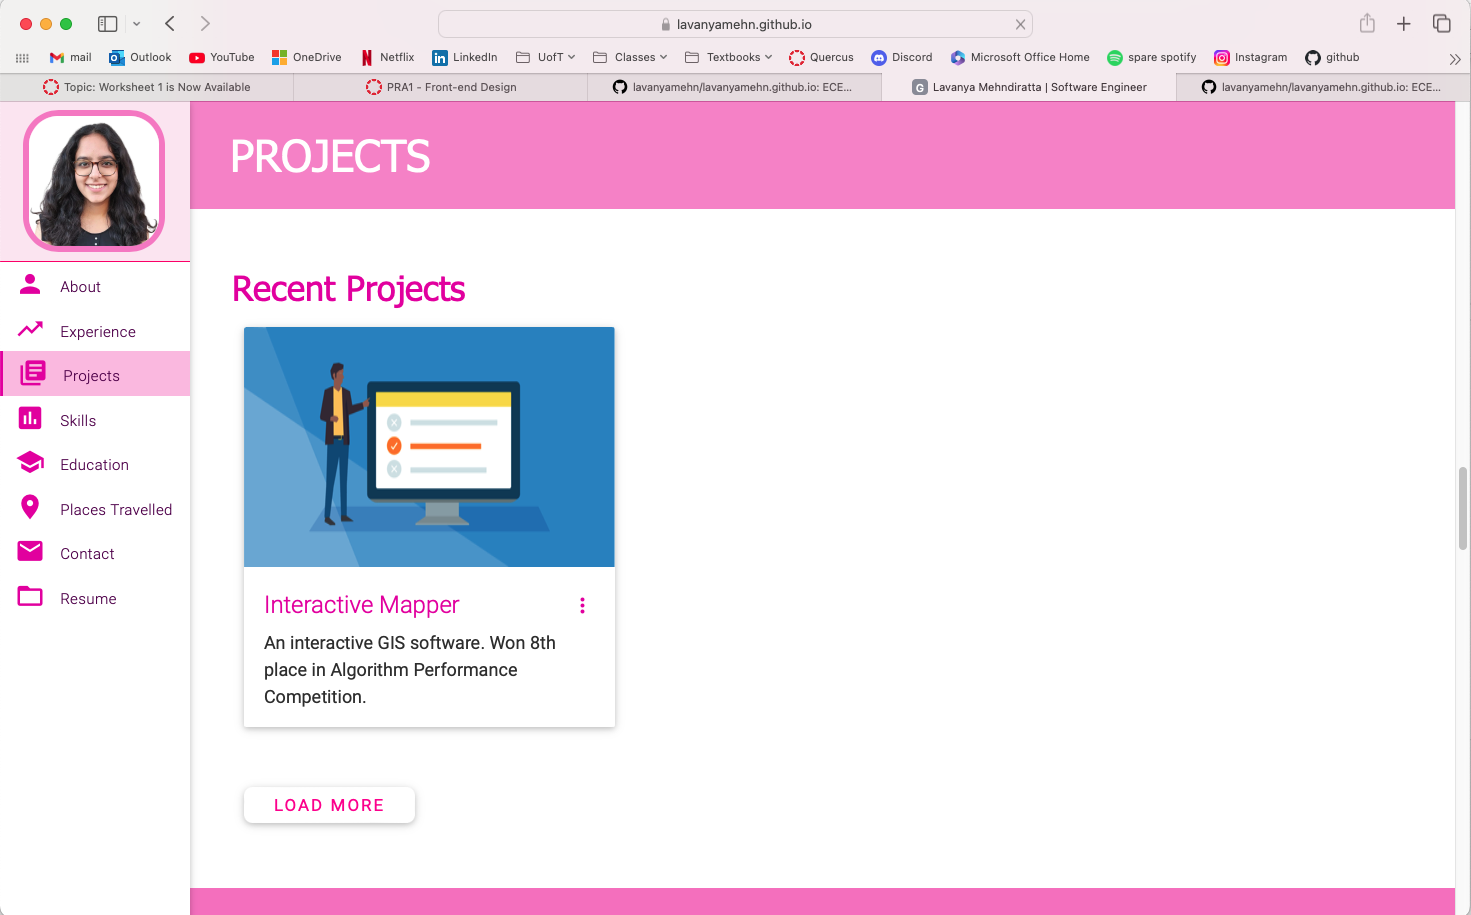
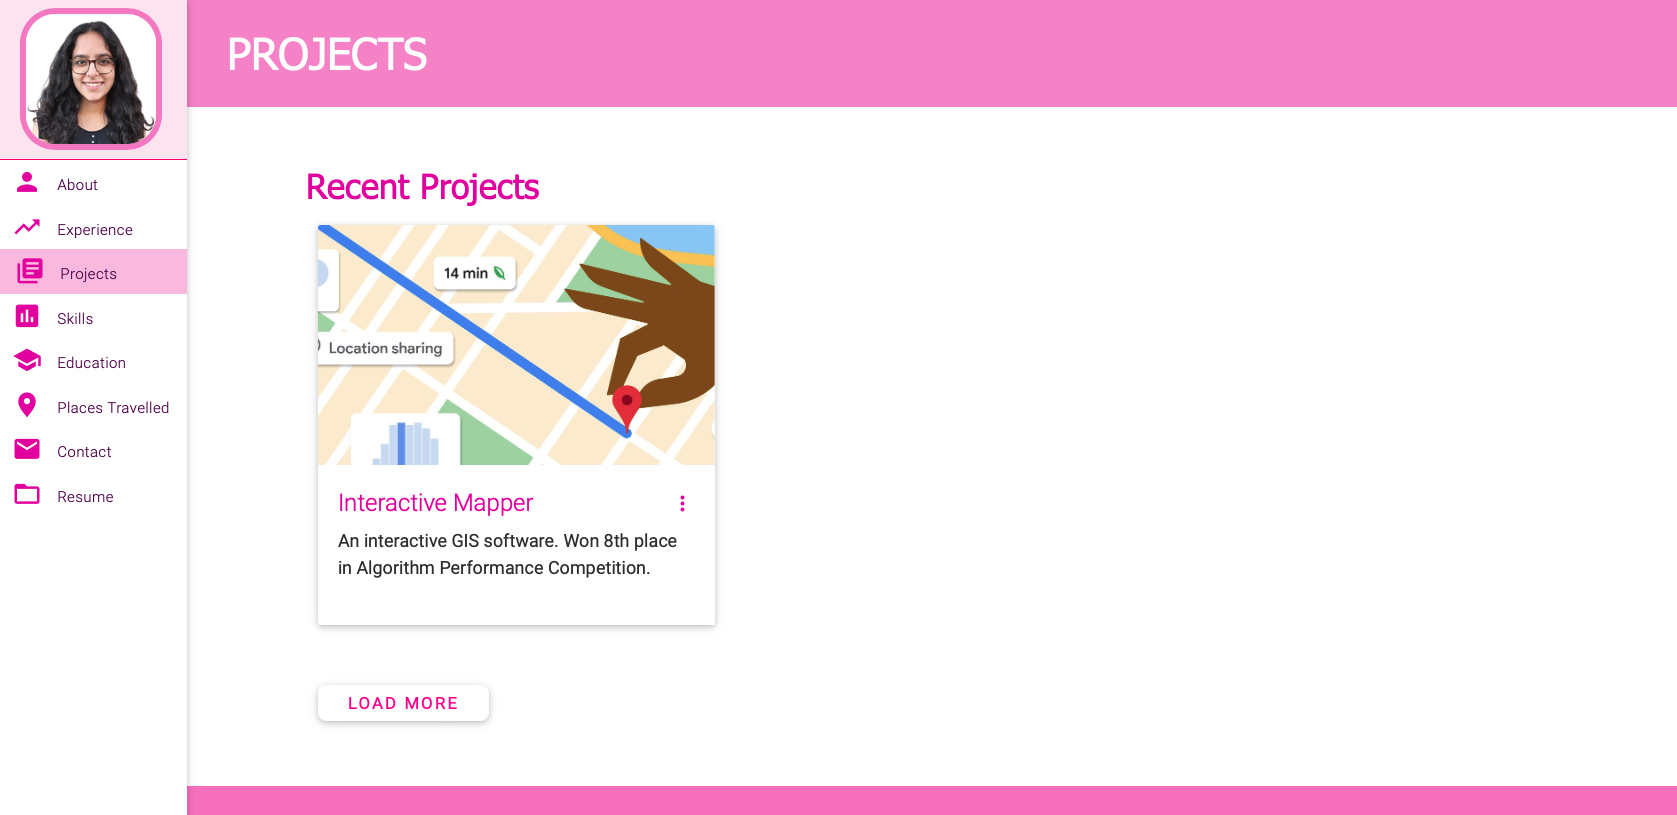
Updated readme

diff --git a/README.md b/README.md
@@ -3,7 +3,7 @@
 > this repo is a clone of
 https://github.com/varadbhogayata/varadbhogayata.github.io
 
-> https://lavanyamehn.github.io
+> Access my website: https://lavanyamehn.github.io
 
 ![GitHub stars](https://img.shields.io/github/stars/lavanyamehn/lavanyamehn.github.io) 
 ![GitHub forks](https://img.shields.io/github/forks/lavanyamehn/lavanyamehn.github.io)
@@ -110,3 +110,10 @@ To view a live example, **[click here](https://lavanyamehn.github.io/)**
 
 ## License 📄
 This project is licensed under the MIT License - see the [LICENSE.md](./LICENSE) file for details.
+
+## References
+### Projects:
+[1] Pngtree.com, 2024. https://png.pngtree.com/element_our/sm/20180410/sm_5acd1797b5783.jpg (accessed Sep. 19, 2024).
+[2] Wisc.edu, 2024. https://fyi.extension.wisc.edu/moneymatters/files/2022/07/Untitled-design-1024x692.png (accessed Sep. 19, 2024).
+[3] Googleapis.com, 2024. https://storage.googleapis.com/gweb-uniblog-publish-prod/images/google_maps_helpful_hero_1.width-1200.format-webp.webp (accessed Sep. 19, 2024).
+[4] “Newest Vector Art, Graphics, & Images,” Vecteezy. https://www.vecteezy.com/vector-art/523631-crayon-background-colorful-pencil-seamless-border-pattern
